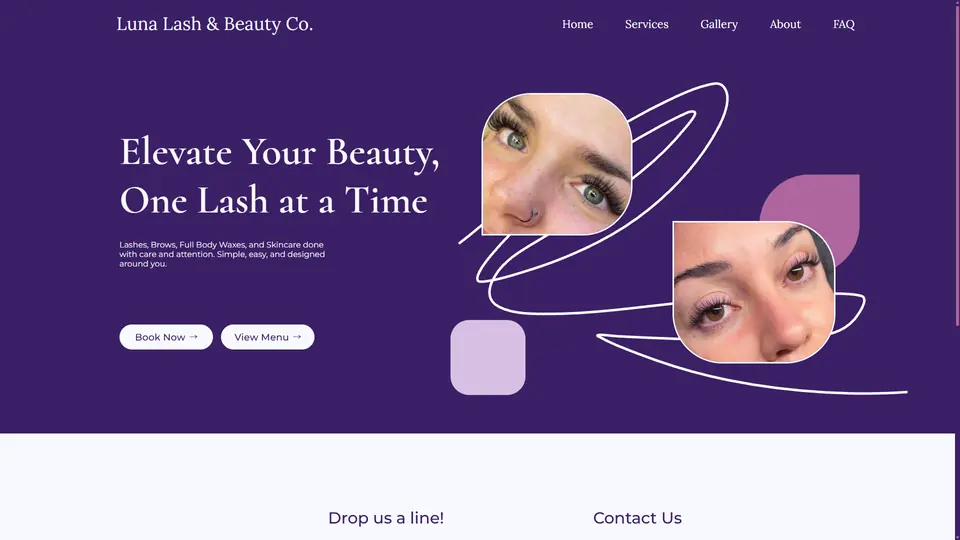
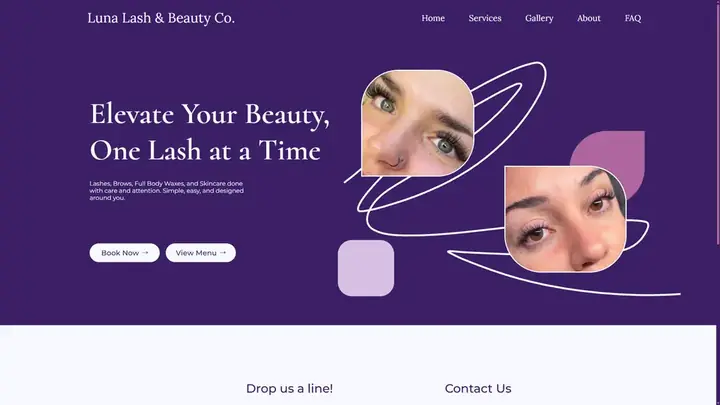
Smaller preview images and explicit image dimensions

diff --git a/src/components/portfolio/Zine.js b/src/components/portfolio/Zine.js
@@ -28,6 +28,9 @@ const useMedia = (q) => {
 };
 const smooth = () => (window.matchMedia('(prefers-reduced-motion: reduce)').matches ? 'auto' : 'smooth');
 // Screenshots for sites whose `image` is a square logo tile.
+// Intrinsic sizes of the preview images, so the browser reserves their space before they load.
+const SHOT_SIZE = { blm: [720, 405], whosedebut: [720, 450], luna: [720, 405], buildflowos: [720, 378], intraconnected: [800, 450] };
+const shotDims = (id) => { const [width, height] = SHOT_SIZE[id] || [960, 540]; return { width, height }; };
 const phoneShots = { blm: blmShot, whosedebut: debutShot };
 
 // Terrarium portfolio: a printed zine, Issue 04. Cover, contents, feature spreads, an interview and a back cover.
@@ -94,11 +97,11 @@ export const Live = ({ w, W = 1280, H = 800, interactive = false, defer = true }
     return () => ro.disconnect();
   }, [W, shot]);
   const url = liveUrl(w);
-  if (!url) return <img src={w.image} alt={`${w.title} preview`} loading="lazy" decoding="async" />;
-  if (shot) return <img src={shot} alt={`${w.title} preview`} loading="lazy" decoding="async" />;
+  if (!url) return <img src={w.image} {...shotDims(w.id)} alt={`${w.title} preview`} loading="lazy" decoding="async" />;
+  if (shot) return <img src={shot} {...shotDims(w.id)} alt={`${w.title} preview`} loading="lazy" decoding="async" />;
   return (
     <div className={`tz-live${interactive ? ' tz-live-on' : ''}`} ref={box} style={{ aspectRatio: `${W} / ${H}` }}>
-      {defer && !loaded && <img className="tz-live-ph" width={W} height={H} src={phoneShots[w.id] || w.image} alt={`${w.title} preview`} loading="lazy" decoding="async" />}
+      {defer && !loaded && <img className="tz-live-ph" {...shotDims(w.id)} src={phoneShots[w.id] || w.image} alt={`${w.title} preview`} loading="lazy" decoding="async" />}
       {armed && (
         <iframe src={url} title={`${w.title}, live site`} tabIndex={interactive ? 0 : -1} sandbox="allow-scripts allow-same-origin" referrerPolicy="no-referrer"
           onLoad={() => setLoaded(true)}
@@ -337,7 +340,7 @@ export default function Zine() {
         <p className="tz-strip"><span>Developer &middot; Musician &middot; Writer &middot; Illustrator</span><span>{bio.where}</span><span>Open to commissions</span></p>
         <h1 className="tz-mast" aria-label="Hunter Africk, Reno web developer and designer">{[...'HUNTER'].map((c, i) => <span key={i} aria-hidden="true">{c}</span>)}</h1>
         <figure className="tz-cover-photo">
-          <img src={candid} width="800" height="800" alt="Hunter, looking up at the camera, holding a glowing green alien balloon" fetchpriority="high" decoding="async" />
+          <img src={candid} width="640" height="640" alt="Hunter, looking up at the camera, holding a glowing green alien balloon" fetchpriority="high" decoding="async" />
           {[1, 2, 3, 4, 5].map((n) => <i key={n} className={`tz-fly tz-fly-${n}`} aria-hidden="true" />)}
         </figure>
         <ul className="tz-lines">
@@ -387,7 +390,7 @@ export default function Zine() {
         <DebutTitle />
         <figure className="tz-album">
           <i className="tz-vinyl" aria-hidden="true" />
-          <img src={album.image} width="800" height="800" alt="Collection of Sounds album cover, drawn by Hunter" loading="lazy" decoding="async" />
+          <img src={album.image} width="640" height="640" alt="Collection of Sounds album cover, drawn by Hunter" loading="lazy" decoding="async" />
         </figure>
         <article className="tz-feature">
           <p className="tz-kicker">p.06 &middot; The debut</p>
@@ -445,7 +448,7 @@ export default function Zine() {
       {/* FEATURE: Q&A */}
       <section className="tz-page tz-qa" ref={reg('qa')}>
         <figure className="tz-qa-photo">
-          <img src={portrait} width="800" height="505" alt="Hunter grinning in the driver's seat" loading="lazy" decoding="async" />
+          <img src={portrait} width="640" height="404" alt="Hunter grinning in the driver's seat" loading="lazy" decoding="async" />
         </figure>
         <article>
           <p className="tz-kicker">p.24 &middot; The interview</p>

diff --git a/src/components/portfolio/ProjectCards.js b/src/components/portfolio/ProjectCards.js
@@ -47,7 +47,7 @@ const Intra = ({ w, i }) => (
     {/* The preview is a link to the live site too, like the button. */}
     <a className="pj-shot" href={w.links.find(([l]) => l === 'Visit')[1]} target="_blank" rel="noopener noreferrer" aria-label="Visit intraconnected.app (opens in a new tab)">
       <span className="pj-shot-bar" aria-hidden="true"><i /><i /><i /><span>intraconnected.app</span></span>
-      <img src={intraShot} width="1000" height="563" alt="" loading="eager" decoding="async" />
+      <img src={intraShot} width="800" height="450" alt="" loading="eager" decoding="async" />
     </a>
   </article>
 );
